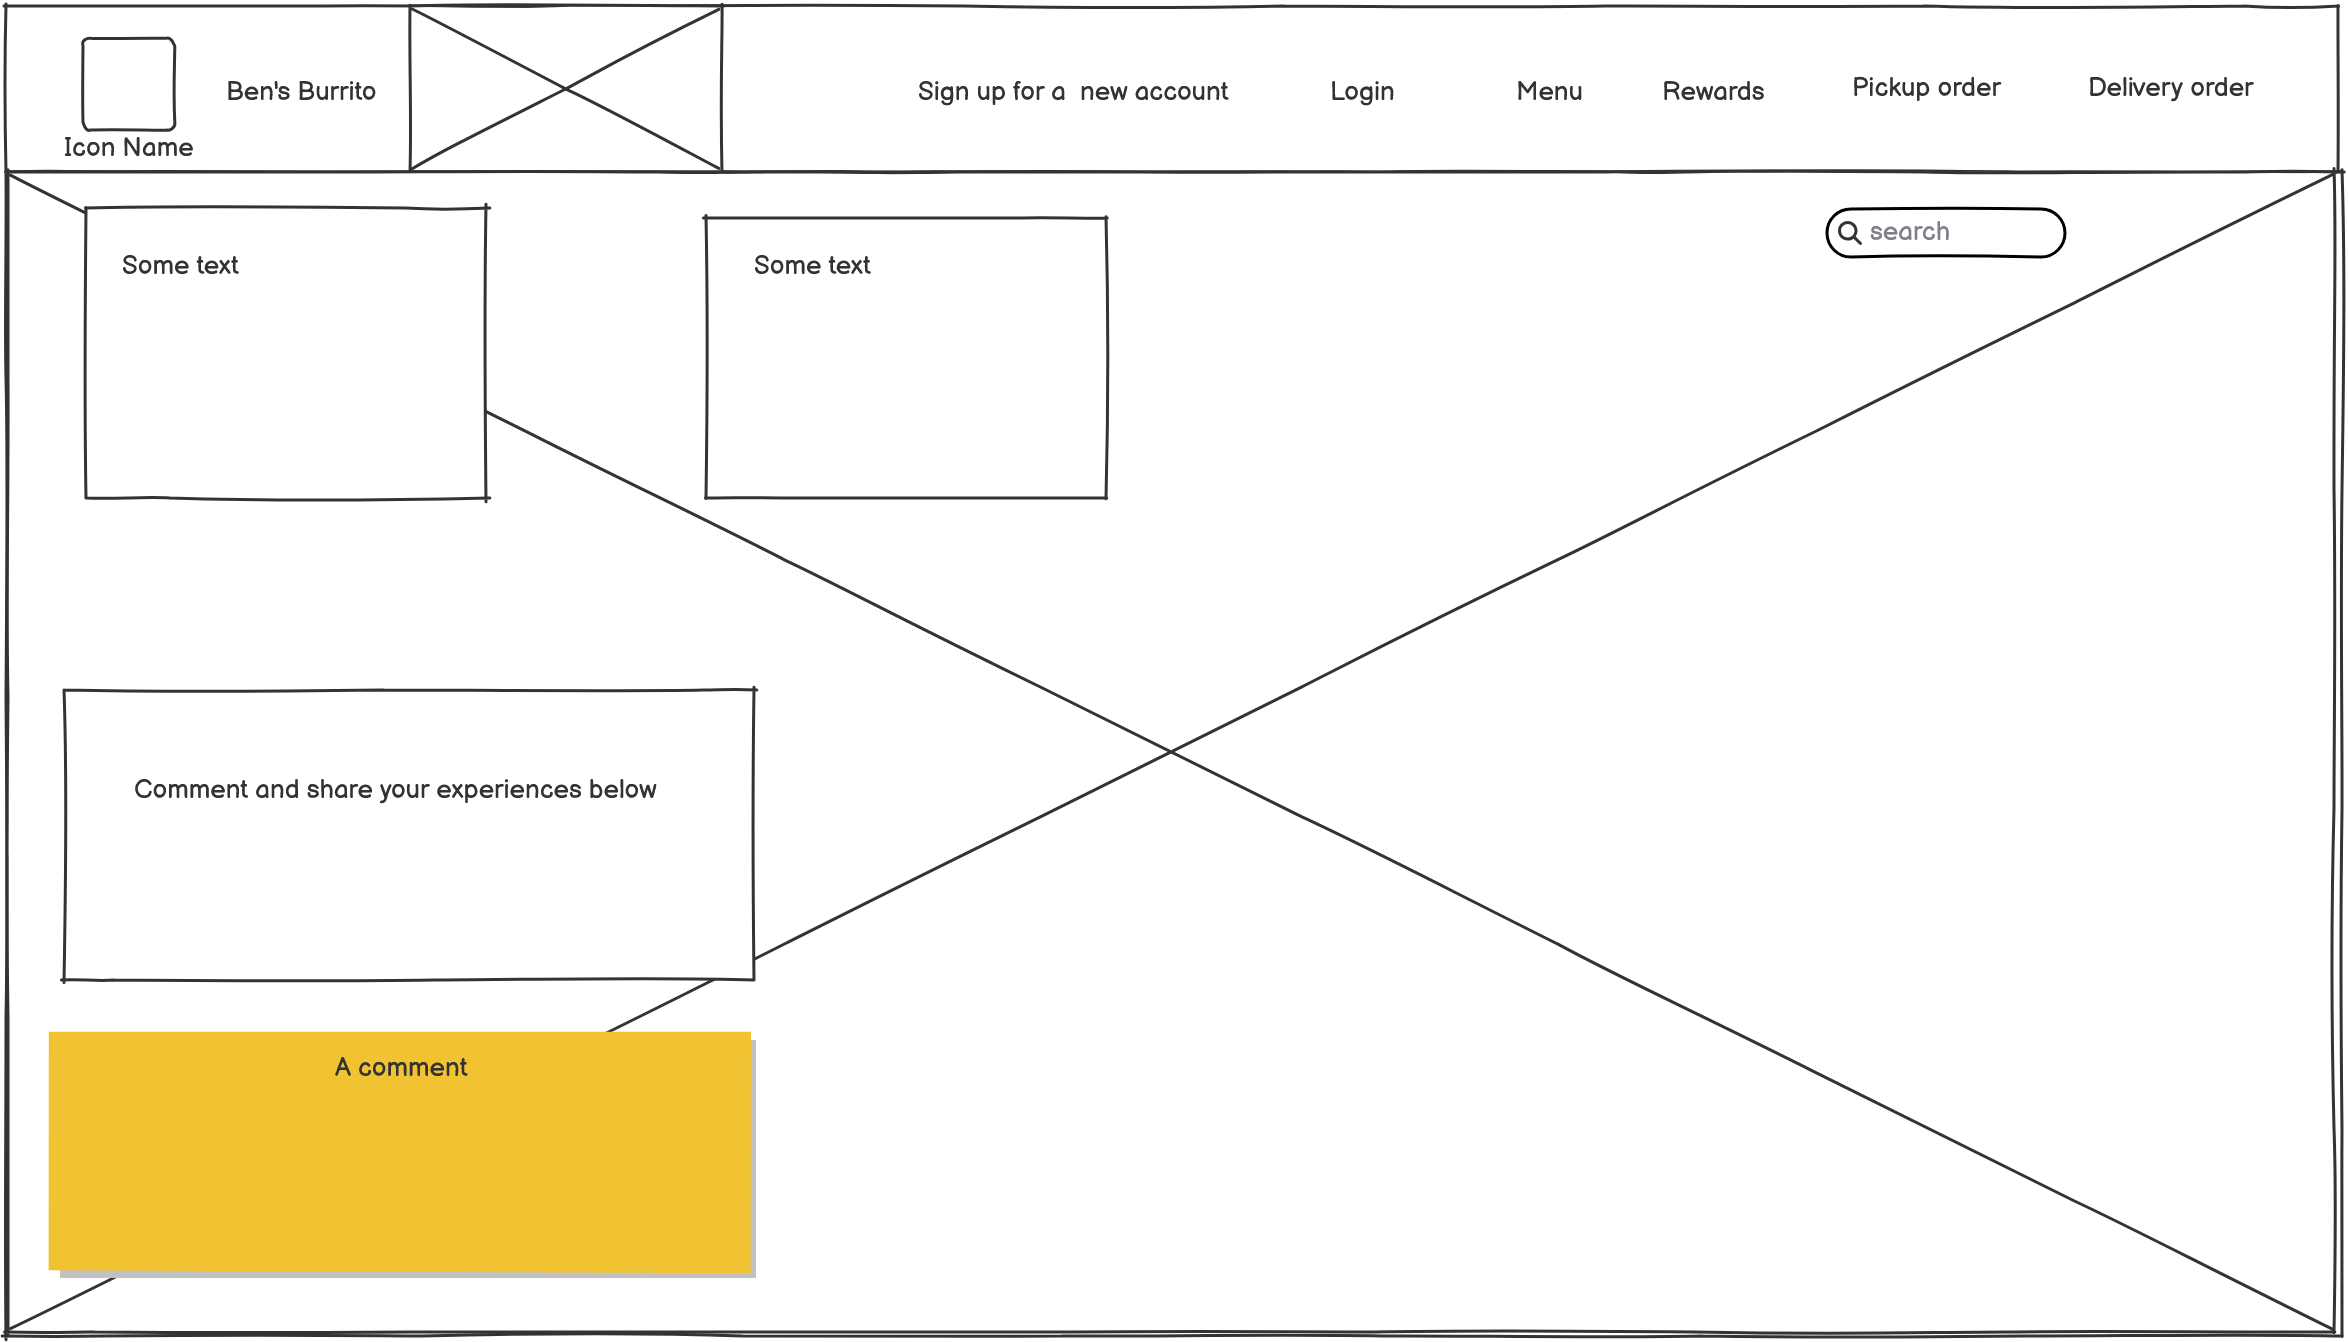
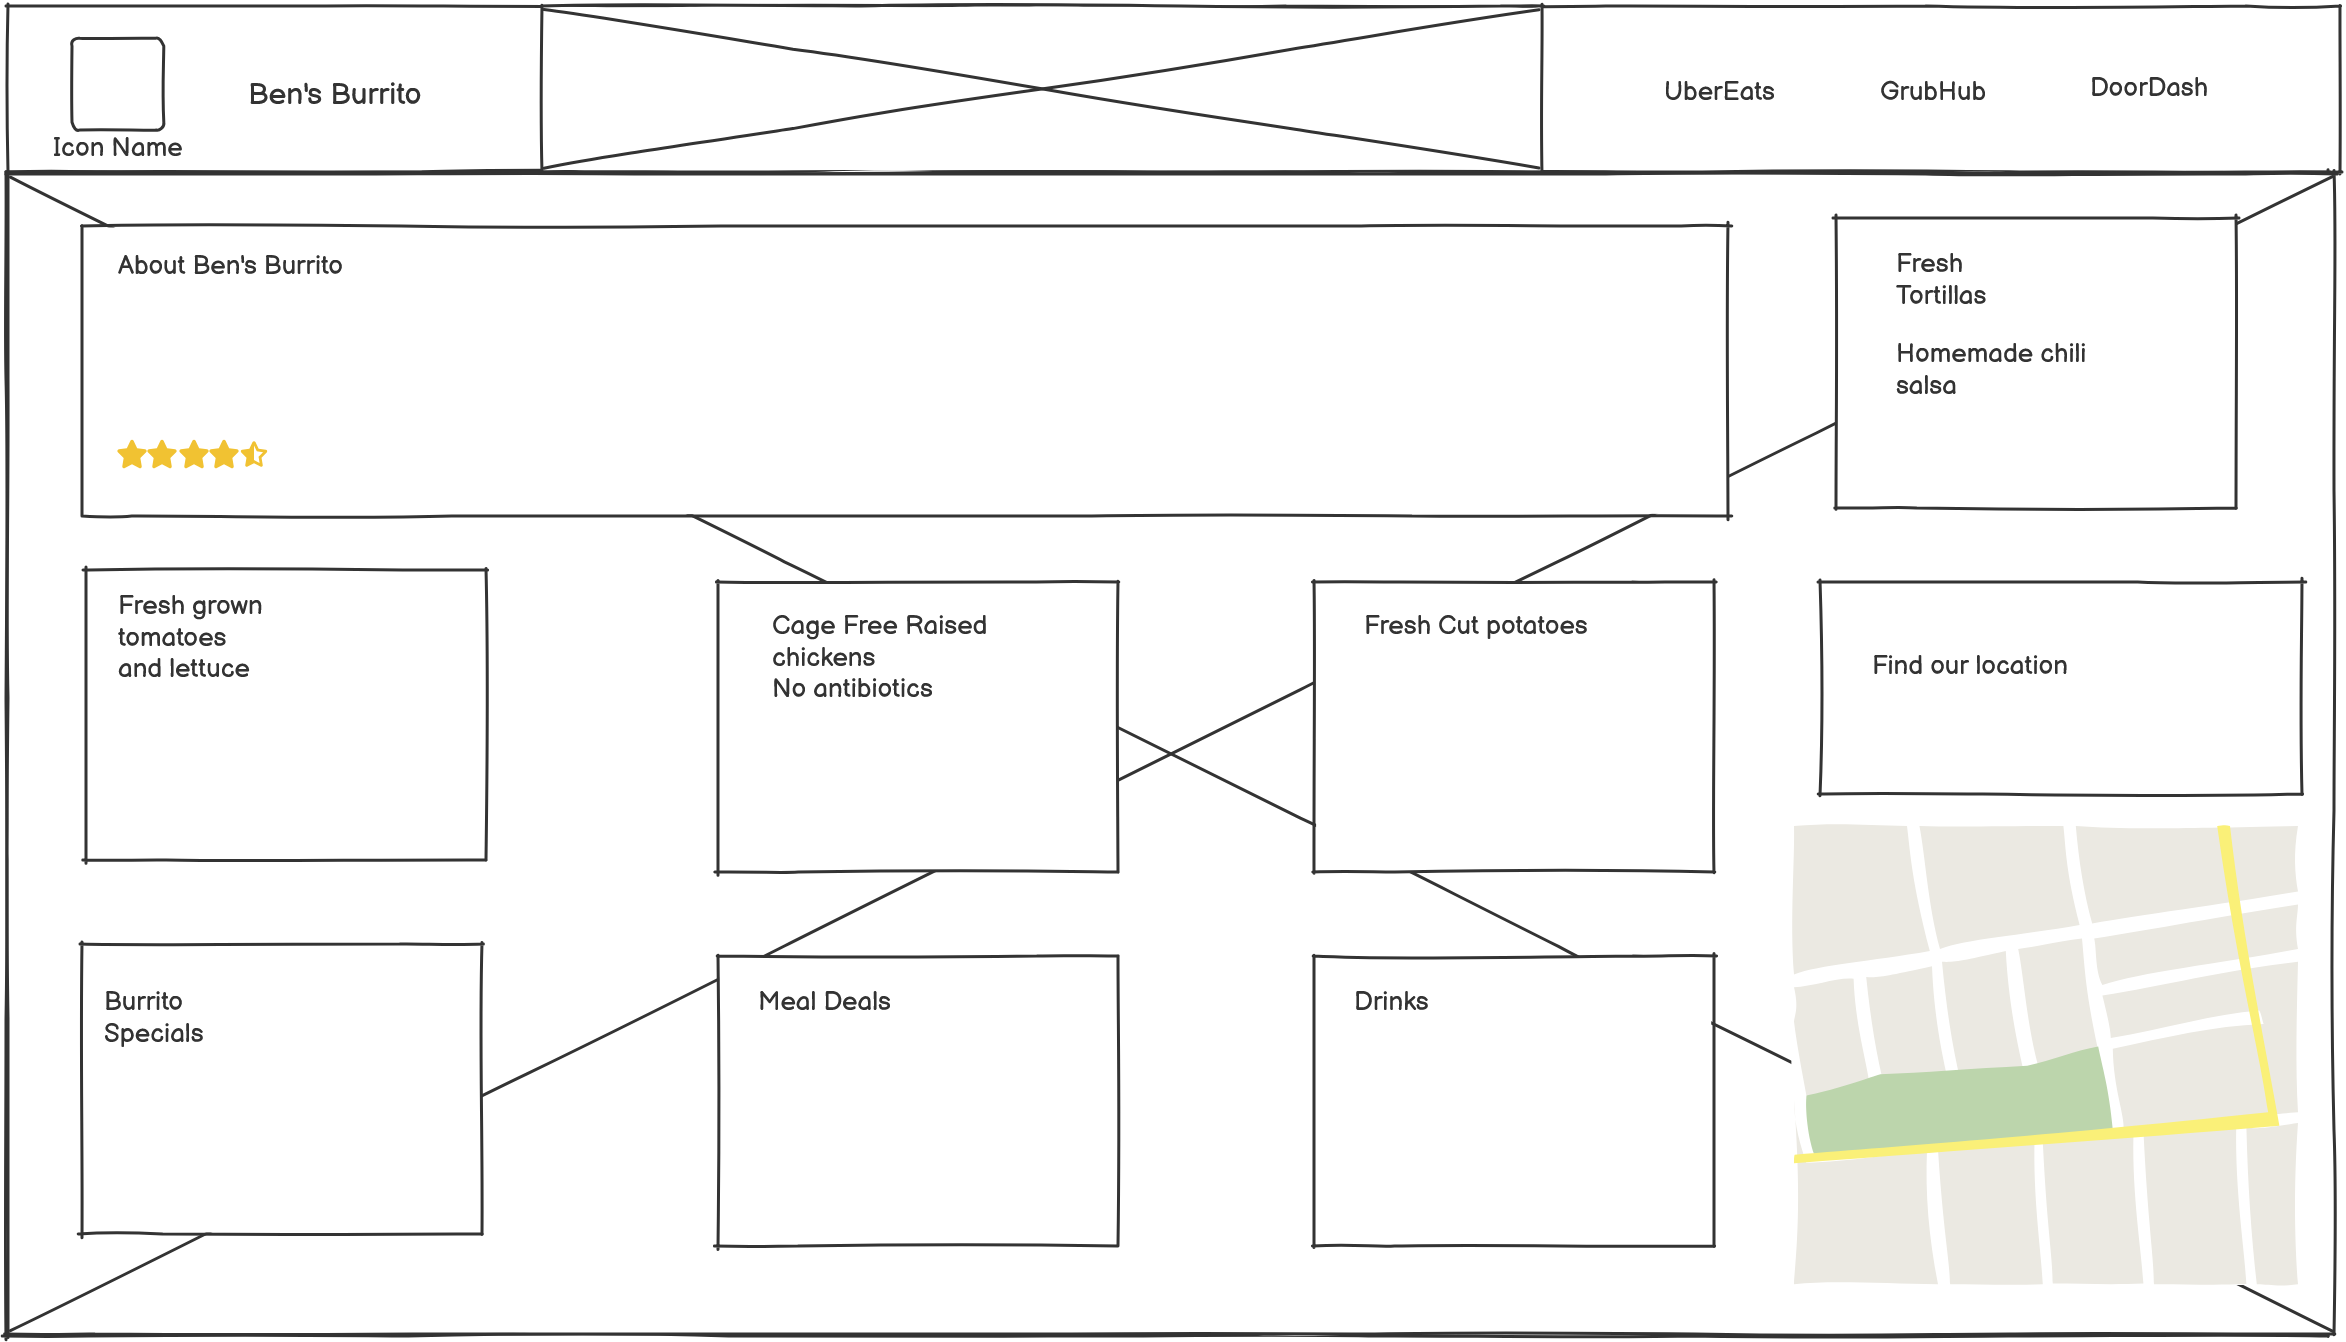
PWP milestone 2

diff --git a/documentation/milestone-2.html b/documentation/milestone-2.html
@@ -9,11 +9,12 @@
 </head>
 <body>
 <p>Content Strategy</p>
-The purpose of my content strategy is show the user at the header bar, which is what the user
-sees immediately, what they are capable of doing on the site. Such as create an online
-user account, look at the Menu, sign up for our rewards, start a pickup or a delivery order.
-On the front page is a comment box where the users can type in comments about their experiences
-at the restaurant.
+<p>The purpose of my content strategy is show the user at the header bar, which is what the user
+sees immediately, what my restaurant ben's burrito is about and shows some ways to order such as grubhub, ubereats,
+and doordash. The about me section will tell the user about the restaurant, our history, our mission, how we
+started. The other parts of the homepage talk about our cage free raised chickens, fresh grown vegetables, and
+all our menu items and current food deals. The mobile site, will do what the desktop site does except the display the
+information better suited for the mobile display.</p>
 <img src="desktop-view.png" alt="Milestone desktop view"/>
 <img src="mobile-view.png" alt="Milestone mobile view"/>
 
